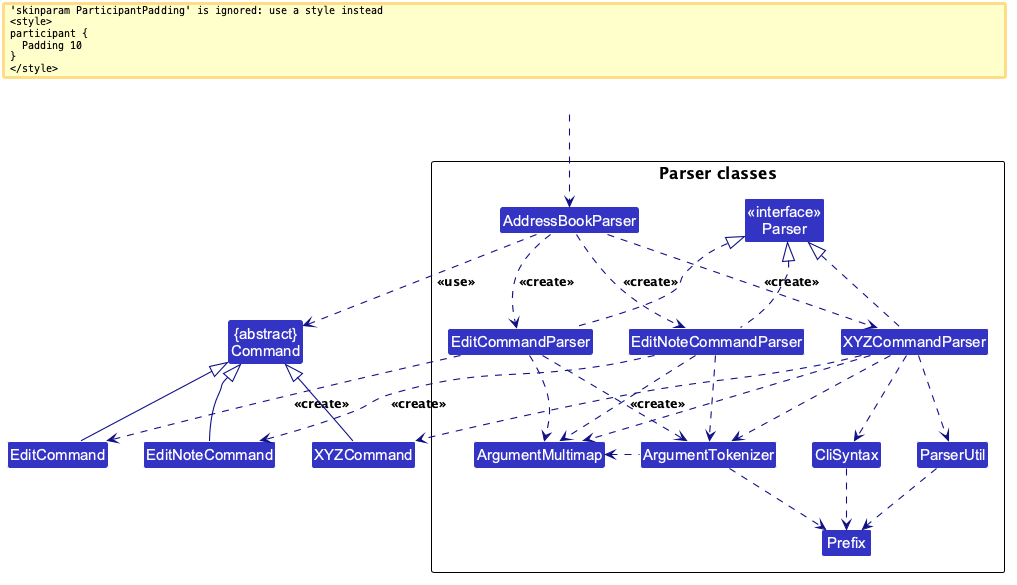
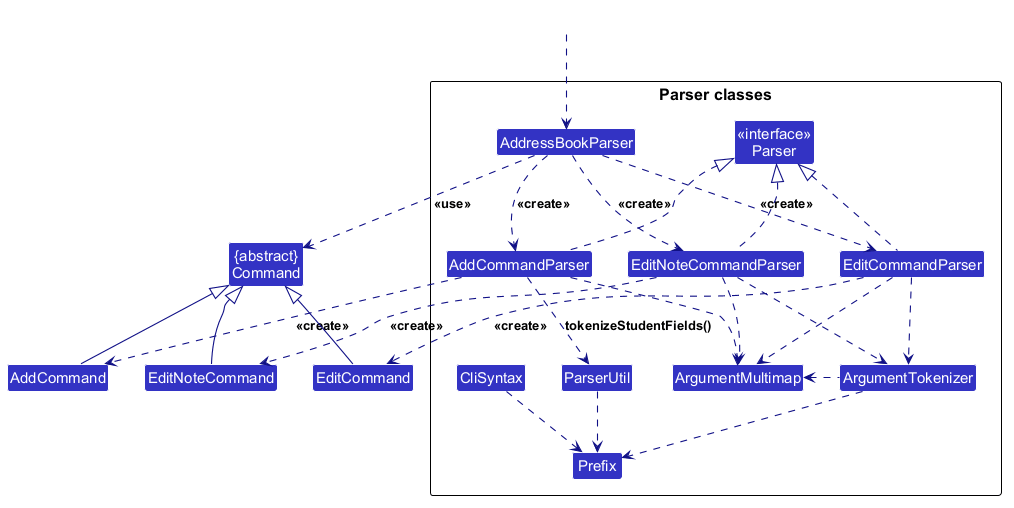
Document the student add flow in UML
Show add relationships across parser, logic, model, UI, and storage.

Render a focused sequence and explain it in the guide.

diff --git a/docs/DeveloperGuide.md b/docs/DeveloperGuide.md
@@ -113,8 +113,9 @@ Here are the other classes in `Logic` (omitted from the class diagram above) tha
 <img src="images/ParserClasses.png" width="600"/>
 
 How the parsing works:
-* When called upon to parse a user command, the `AddressBookParser` class creates an `XYZCommandParser` (`XYZ` is a placeholder for the specific command name, e.g., `AddCommandParser`). The parser uses the other classes shown above to parse the user command and create an `XYZCommand` object (e.g., `AddCommand`). The `AddressBookParser` returns that object as a `Command` object.
-* All `XYZCommandParser` classes, such as `AddCommandParser` and `DeleteCommandParser`, implement the `Parser` interface so they can be treated similarly where appropriate, for example during testing.
+
+* For `add`, `AddressBookParser` creates an `AddCommandParser`. That parser checks the supported prefixes and required fields, builds a validated `Student`, and returns an `AddCommand` as a `Command` object. The diagram shows this route explicitly.
+* `AddCommandParser` and the other command parsers implement the `Parser` interface so they can be treated similarly where appropriate, for example during testing.
 
 ### Model component
 
@@ -125,6 +126,7 @@ How the parsing works:
 The `Model` component,
 
 * stores the address book data i.e., all `Person` objects (which are contained in a `UniquePersonList` object).
+* stores added `Student` records in `AddressBook`; each student has a stable `StudentId`, name, parent or guardian contact, subject, and current level. The diagram shows these student relationships alongside the inherited person model.
 * stores the `Person` objects selected by the current filter, such as search results, in a separate _filtered_ list. It exposes this list as an unmodifiable `ObservableList<Person>` that the UI can observe and bind to, so the UI updates when the list changes.
 * stores a `UserPrefs` object that represents the user’s preferences (currently, just the GUI settings). This is exposed to the outside as a `ReadOnlyUserPrefs` object.
 * does not depend on any of the other three components (as the `Model` represents data entities of the domain, they should make sense on their own without depending on other components)
@@ -146,6 +148,7 @@ The `Storage` component,
 
 * can save both address book data and user preference data in JSON format, and read them back into corresponding objects.
 * is implemented by `StorageManager`, which delegates the actual JSON file access to `JsonAddressBookStorage` and `JsonUserPrefsStorage` (one class per data file).
+* serializes added students through `JsonSerializableAddressBook` and `JsonAdaptedStudent`, including their optional session notes.
 * depends on some classes in the `Model` component (because the `Storage` component's job is to save/retrieve objects that belong to the `Model`)
 
 #### Data-file format and recovery
@@ -169,6 +172,14 @@ This section describes some noteworthy details on how certain features are imple
 ### TutorTrack command routing
 
 `AddressBookParser` registers the TutorTrack domain commands `add`, `edit`, `edit note`, `view`, `note`, and `delete`, together with the application-level `help` and `exit` commands. The inherited AB3 `find`, `clear`, and removed TutorTrack `list` words have no routes and produce the standard unknown-command error. TutorTrack's `edit` route dispatches `edit note` to `EditNoteCommandParser` and all other edit arguments to `EditCommandParser`, so it can update either a session note or a student record without exposing the inherited person edit behavior. The student add and edit parsers accept only the fields documented in the User Guide, so inherited person parameters such as `a/ADDRESS` and `t/TAG` are rejected before they can mutate or save data. A brand-new installation with no data file starts with an empty address book, so it does not create inaccessible legacy person records. Legacy person data types remain only for persisted-data compatibility; they are not part of TutorTrack's command surface.
+
+### Adding a student
+
+The following sequence shows only the main successful `add` path. `AddressBookParser` delegates to `AddCommandParser`, which constructs a validated `Student`. `AddCommand` checks duplicate identity through `Model#hasStudent` before calling `Model#addStudent`, and `LogicManager` saves the changed address book. Invalid, missing, repeated, or unsupported parameters produce a parse error; a duplicate produces a command error. If saving fails, `LogicManager` restores its pre-command snapshot. After a successful save, the UI refreshes the roster.
+
+![Student add sequence diagram](images/AddStudentSequenceDiagram.png)
+
+The class diagrams in [Logic](#logic-component), [Model](#model-component), [Storage](#storage-component), and [UI](#ui-component) show the corresponding relationships. A newly added student appears in `StudentRosterPanel` as a `StudentRosterCard`; `JsonAdaptedStudent` stores the student when the address book is saved.
 
 ### Student identity
 
